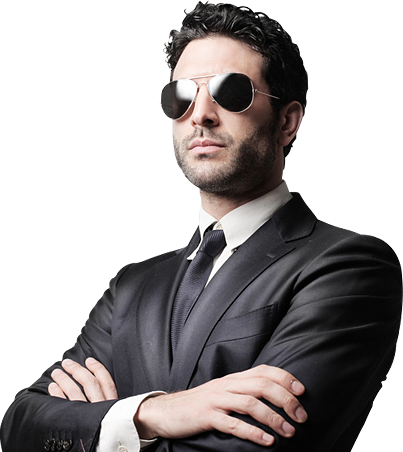
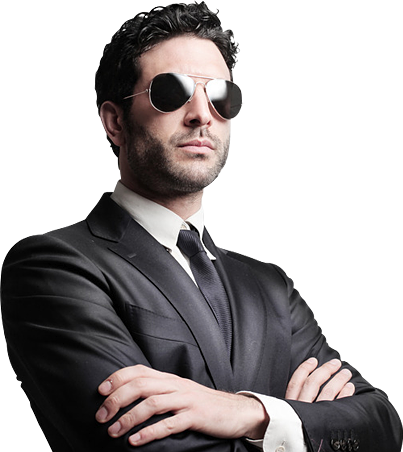
Стили about/interests

diff --git a/app/index.html b/app/index.html
@@ -38,51 +38,54 @@
 		</div>
 	</header>
 	<section class="about">
-		<div class="container">
+		<div class="about__container">
 			<div class="about__flex">
 				<div class="hero-img">
-					<img src="" alt="" class="hero-img__link">
-					<a href="" class="hero-img__btn">Download Resume</a>
+					<img src="img/businessman.png" alt="" class="hero-img__link">
+					<a href="" class="hero-img__btn"><i class="fas fa-cloud-download-alt"></i> Download Resume</a>
 				</div>
 				<div class="personal">
-					<h2 class="personal__title">about me</h2>
-					<div class="personal__description description">
-						<p class="description__text">Hello! I’m Oliver Queen. Web Developer with over 8 years of experience. Experienced with all stages of the development cycle for dynamic web projects. Having an in-depth knowledge including advanced HTML5, CSS3, JavaScript, jQuery, Angular JS. Strong background in management and leadership.</p>
-						<ul class="description__list">
-							<li class="description__item"><span class="description__title">Name: </span>Oliver Queen</li>
-							<li class="description__item"><span class="description__title">Date of birth: </span>14 February 1986</li>
-							<li class="description__item"><span class="description__title">Nationality: </span>Citizen of Envato</li>
-							<li class="description__item"><span class="description__title">Address: </span>23 High Hope Blvd., Some City, Some Country</li>
-							<li class="description__item"><span class="description__title">Phone: </span>(123) - 456-7890, (123) - 456-7890</li>
-							<li class="description__item"><span class="description__title">Email: </span>oliver.queen@janina.com</li>
-						</ul>
+					<div class="personal__content">
+						<h2 class="personal__title">about me</h2>
+						<div class="personal__description description">
+							<p class="description__text">Hello! I’m Oliver Queen. Web Developer with over 8 years of experience. Experienced with all stages of the development cycle for dynamic web projects. Having an in-depth knowledge including advanced HTML5, CSS3, JavaScript, jQuery, Angular JS. Strong background in management and leadership.</p>
+							<ul class="description__list">
+								<li class="description__item"><span class="description__title">Name: </span>Oliver Queen</li>
+								<li class="description__item"><span class="description__title">Date of birth: </span>14 February 1986</li>
+								<li class="description__item"><span class="description__title">Nationality: </span>Citizen of Envato</li>
+								<li class="description__item"><span class="description__title">Address: </span>23 High Hope Blvd., Some City, Some Country</li>
+								<li class="description__item"><span class="description__title">Phone: </span>(123) - 456-7890, (123) - 456-7890</li>
+								<li class="description__item"><span class="description__title">Email: </span>oliver.queen@janina.com</li>
+							</ul>
+						</div>
 					</div>
 				</div>
 			</div>
 			<div class="interests">
+				<h2 class="interests__title">my interests</h2>
 				<div class="interests__list">
 					<div class="interests__item">
-						<i class="interests_icon fa"></i>
+						<i class="interests__icon fas fa-pencil-alt fa-3x"></i>
 						<p class="interests__text">Drawing</p>
 					</div>
 					<div class="interests__item">
-						<i class="interests_icon fa"></i>
+						<i class="interests__icon fas fa-plane fa-3x"></i>
 						<p class="interests__text">Travel</p>
 					</div>
 					<div class="interests__item">
-						<i class="interests_icon fa"></i>
+						<i class="interests__icon fas fa-headphones fa-3x"></i>
 						<p class="interests__text">Music</p>
 					</div>
 					<div class="interests__item">
-						<i class="interests_icon fa"></i>
+						<i class="interests__icon fas fa-coffee fa-3x"></i>
 						<p class="interests__text">Coffee</p>
 					</div>
 					<div class="interests__item">
-						<i class="interests_icon fa"></i>
+						<i class="interests__icon fas fa-space-shuttle fa-3x"></i>
 						<p class="interests__text">Space</p>
 					</div>
 					<div class="interests__item">
-						<i class="interests_icon fa"></i>
+						<i class="interests__icon fas fa-paint-brush fa-3x"></i>
 						<p class="interests__text">Drawing</p>
 					</div>
 				</div>

diff --git a/app/sass/main.sass b/app/sass/main.sass
@@ -2,10 +2,13 @@
 @import "fonts.sass"
 @import "mixin.sass"
 
+* 
+	box-sizing: border-box
+
 .page
 	box-sizing: border-box
-	font-family: "OpenSans-Regular"
-	font-size: 0.875rem
+	font-family: "OpenSans-light"
+	font-size: 1rem
 	margin: 0
 	padding: 0
 	background-color: $main-bg
@@ -100,6 +103,106 @@
 		font-size: 2.25rem
 		line-height: 2.5
 		letter-spacing: -1px
+
+
+
+/*about*/
+.about
+	&__container
+		@extend %container
+	&__flex
+		display: flex
+		justify-content: space-between
+		padding-top: 90px
+
+.hero-img
+	width: 435px
+	height: 435px
+	position: relative
+	margin-left: 100px
+	border: 7px solid transparent
+	border-image: linear-gradient(top left, $green 0%, $blue 100%)
+	border-image-slice: 1
+	&__link
+		width: 435px
+		height: 435px
+		padding:  1.875rem  1.875rem 0  1.875rem
+		transform: translate(-2.5rem, 30px)
+		background-color: #141820
+	&__btn
+		display: inline-block
+		position: relative
+		padding: 1rem 2.188rem
+		margin-top: 3.75rem
+		transform: translateX(50%)
+		font-family: "OpenSans-Semibold"
+		font-size: 0.75rem
+		color: #fff
+		text-decoration: none
+		background: -webkit-linear-gradient(right, $green, $blue)
+		border-radius: 10px
+		z-index: 1
+
+.personal
+	width: 50%
+	&__content
+		padding: 0 3.75rem
+	&__title
+		+headline-text
+		margin: 0
+	&__description
+		padding-top: 2.5rem
+
+.description
+	&__text
+		margin: 0
+		line-height: 1.75rem
+	&__list
+		margin: 0
+		padding-top: 25px
+		list-style-type: none
+		padding-left: 0
+	&__item
+		font-size: 1.125rem
+		margin-bottom: 25px
+		font-family: "OpenSans-Regular"
+	&__title
+		text-transform: uppercase
+		color: $body-headline
+
+.interests
+	margin-top: 9.375rem
+	&__title
+		+headline-text
+		font-size: 2.5rem
+		padding: 0 4rem
+	&__list
+		display: flex
+		margin-top: 75px
+		padding: 0 2rem
+	&__item
+		padding: 0 2.813rem
+	&__icon
+		width: 120px
+		height: 120px
+		display: flex
+		justify-content: center
+		align-items: center
+		border: 2px solid $body-headline
+		border-radius: 50%
+		color: $body-headline
+		&:hover
+			background-color: $body-headline
+			color: #fff
+
+	&__text
+		text-align: center
+		font-family: "OpenSans-Regular"
+		margin: 0
+		padding-top: 20px
+
+
+
 
 //ALWAYS END
 @import "media.sass"

diff --git a/app/sass/_mixin.sass b/app/sass/_mixin.sass
@@ -1,7 +1,7 @@
 @import "vars.sass"
 =headline-text
-	font-family: "OpenSans-Extrabold"
-	font-size: 2.813rem
+	font-family: "OpenSans-bold"
+	font-size: 3rem
 	background: -webkit-linear-gradient($green, $blue)
 	-webkit-background-clip: text
 	-webkit-text-fill-color: transparent

diff --git a/app/sass/_fonts.sass b/app/sass/_fonts.sass
@@ -3,6 +3,10 @@
     src : url("../fonts/OpenSans-ExtraBold.woff")
 
 @font-face
+    font-family: "OpenSans-bold"
+    src : url("../fonts/opensans-bold.woff")
+
+@font-face
     font-family: "OpenSans-Semibold"
     src : url("../fonts/OpenSans-Semibold.woff")
 
